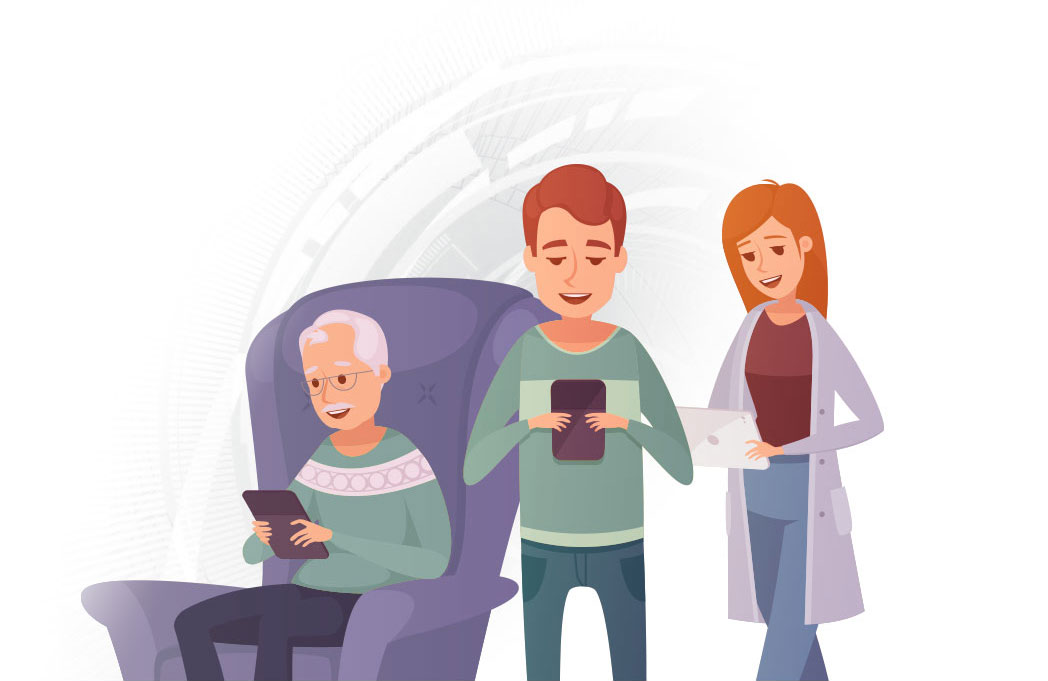
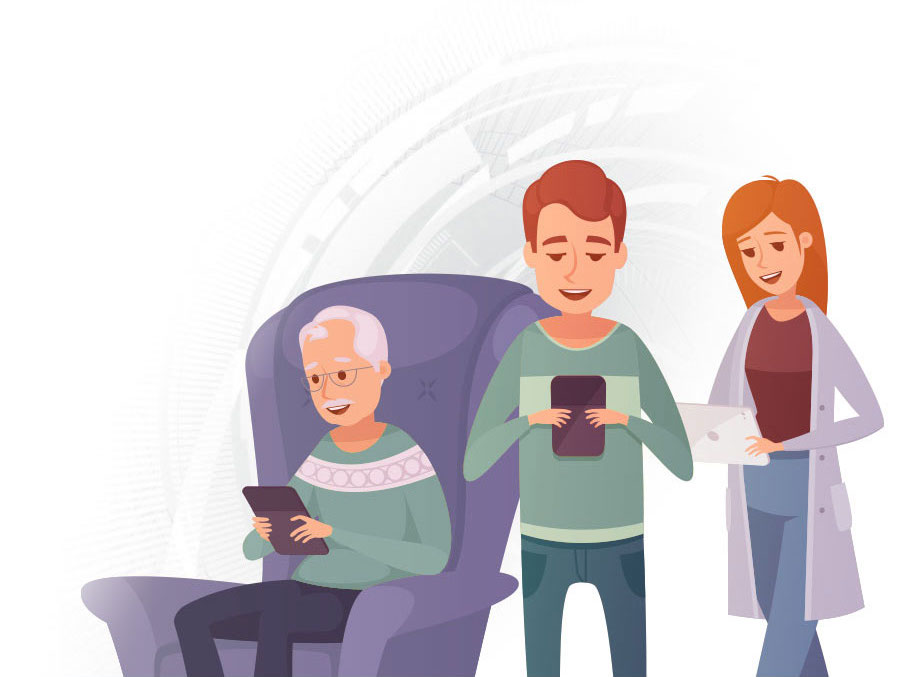
BG cartoon image not confined to a smaller div

diff --git a/_includes/page-head.html b/_includes/page-head.html
@@ -10,13 +10,14 @@
 
   <!-- Bootstrap core CSS -->
   <link href="vendor/bootstrap/css/bootstrap.min.css" rel="stylesheet">
-
+  
   <!-- Custom fonts for this template -->
   <link href="vendor/font-awesome/css/font-awesome.min.css" rel="stylesheet" type="text/css">
   <link href="https://fonts.googleapis.com/css?family=Montserrat:400" rel="stylesheet">
 
   <!-- Custom styles for this template -->
   <link href="css/landing-page.css" rel="stylesheet">
+  <link href="custom.css" rel="stylesheet">
 
   {% if site.google_tag_manager and jekyll.environment != 'test' %}
   <!-- Google Tag Manager -->
@@ -65,6 +66,7 @@
       height="0" width="0" style="display:none;visibility:hidden"></iframe></noscript>
     <!-- End Google Tag Manager (noscript) -->
     {% endif %}
+  <div class="cartoonbg">
 
     <!-- Navigation -->
     <nav class="navbar navbar-expand-lg navbar-light">
@@ -74,3 +76,25 @@
         </a>
       </div>
     </nav>
+
+    <header class="masthead text-white text-center ">
+      <div class="overlay"></div>
+      <div class="container">
+          <div class="row">
+              <div class="col-lg-6 mx-auto">
+                  <h1 class="headline">GUARD THE NETWORKS YOU CARE ABOUT</h1>
+                  <p class="mb-10">Bad guys hack normal people in order to hide their 
+                      tracks online. Smart security researchers scan the Internet
+                      to find the devices the bad guys can hack. Internet attacks get 
+                      also noticed by streetwise victims. They want
+                      the attacks to stop and try to report the attacks. We are working 
+                      on a way to help victims and researchers to
+                      alert you if they find out that your devices could be hacked.
+                  </p>
+              </div>
+              <div class="col-lg-6 mx-auto">
+              </div>
+          </div>
+      </div>
+    </header>
+  </div>

diff --git a/css/landing-page.css b/css/landing-page.css
@@ -74,12 +74,38 @@ h2 {
   color: #d53add;
   margin-top: 0;
 }
-.cartoon {
+.cartoonbg {
   background-image: url("../pmtassets/cartoon.jpg");
-  background-size: contain;
+  background-size: 55%;
   background-repeat: no-repeat;
   background-position: 100% 100%;
+}
 
+@media(max-width:992px) {
+  .cartoonbg {
+    background-image: none;
+  }
+}
+
+@media(min-width:1200px) {
+  .cartoonbg {
+    background-size: 50%;
+    background-position: 100% 100%;
+  }
+}
+
+@media(min-width:1725px) {
+  .cartoonbg {
+    background-size: 40%;
+    background-position: 80% 100%;
+  }
+}
+
+@media(min-width:2168px) {
+  .cartoonbg {
+    background-size: 30%;
+    background-position: 70% 100%;
+  }
 }
 p {
   color: #4c4d4f;

diff --git a/index.html b/index.html
@@ -8,4 +8,3 @@ twittercard: summary_large_image
 twitter: "@BadRapIO"
 ---
 
-{% include header.html %}
